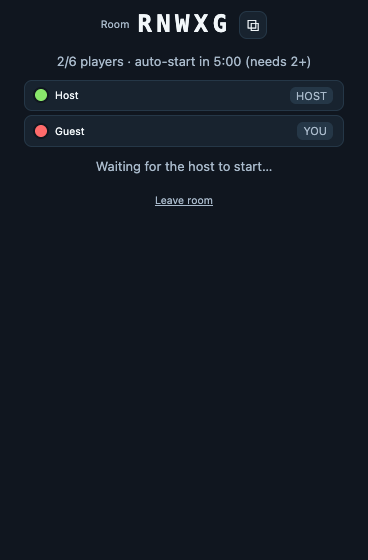
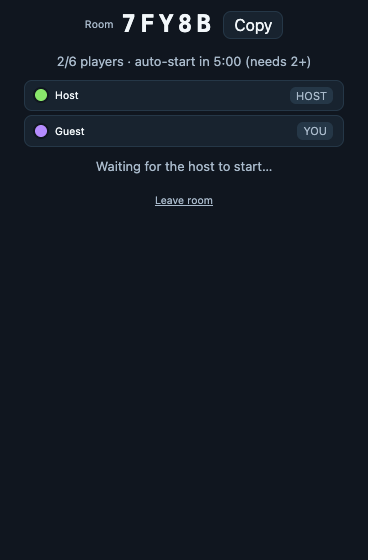
v1.2.1: working copy button, smoother multiplayer, old server removed
- Panel iframe allows clipboard-write; execCommand fallback; visible Copied!
- Space live game states >= 3/4 tick apart (network jitter caused
  double-steps); scoreboard below the board in join order; turn queue 2.
- us-central1 service deleted at the owner's request.
- Tests now click every multiplayer control and check copy in the panel.

Changed region(s): [[0.2092, 0.0, 0.7473, 0.0607], [0.0897, 0.2125, 0.1495, 0.2429]]

diff --git a/extension/games/snake/multi.js b/extension/games/snake/multi.js
@@ -21,7 +21,6 @@ const MEDAL = ['#FFD25B', '#C9D6E2', '#E0A070'];
 const plural = (n, word) => `${n} ${word}${n === 1 ? '' : 's'}`;
 
 const TEMPLATE = `
-<p class="m-status" data-ref="status" role="status"></p>
 
 <section class="m-view" data-view="start">
   <h2>Multiplayer</h2>
@@ -38,7 +37,7 @@ const TEMPLATE = `
 <section class="m-view" data-view="lobby" hidden>
   <div class="m-code">
     <span>Room</span><b data-ref="code"></b>
-    <button class="icon" data-act="copy" aria-label="Copy room code" title="Copy code">⧉</button>
+    <button class="m-copy" data-act="copy" data-ref="copyBtn" aria-label="Copy room code">Copy</button>
   </div>
   <p class="m-muted" data-ref="countdown" aria-live="off"></p>
   <ul class="m-players" data-ref="lobbyPlayers"></ul>
@@ -58,11 +57,11 @@ const TEMPLATE = `
 </section>
 
 <section class="m-view" data-view="game" hidden>
-  <ul class="m-board" data-ref="scoreboard" aria-label="Scoreboard"></ul>
   <div class="stage">
     <canvas data-ref="canvas" role="img" aria-label="Multiplayer Snake board. Steer with arrow keys or W A S D."></canvas>
     <p class="m-banner" data-ref="banner" hidden></p>
   </div>
+  <ul class="m-board" data-ref="scoreboard" aria-label="Scoreboard"></ul>
   <div class="dpad" data-ref="dpad">
     ${['up', 'left', 'down', 'right'].map((d) => `<button class="dir dir-${d}" data-dir="${d}" aria-label="Turn ${d}"><img src="/assets/ui/arrow-${d}.svg" alt=""></button>`).join('')}
   </div>
@@ -87,6 +86,7 @@ const TEMPLATE = `
   <button class="link" data-act="closeGlobal">Back</button>
 </section>
 
+<p class="m-status" data-ref="status" role="status"></p>
 <p class="sr-only" data-ref="announce" aria-live="polite"></p>`;
 
 // mountMulti(container, { onExit }) → { destroy }
@@ -117,6 +117,10 @@ export function mountMulti(container, { onExit }) {
   let lastPhase = null;
   let aim = null; // { dir, at }: your latest steer, drawn on your head before the server's tick moves you
   let localKey;
+  const pending = []; // states waiting for their slot on screen
+  let paceTimer = 0;
+  let shownAt = 0;
+  let copiedTimer = 0;
 
   const el = (tag, cls, text) => {
     const n = document.createElement(tag);
@@ -178,6 +182,7 @@ export function mountMulti(container, { onExit }) {
     lostAt ||= Date.now();
     if (Date.now() - lostAt > GIVE_UP_MS) return giveUp('Lost connection to the room. Check your internet and join again.');
     status('Connection lost. Reconnecting…', true);
+    if (view === 'game') renderGame(state, state.players.find((p) => p.id === me));
     clearTimeout(retry);
     retry = setTimeout(() => connect({ t: 'resume', token }), Math.min(4000, 250 * 2 ** attempt++));
   }
@@ -206,13 +211,34 @@ export function mountMulti(container, { onExit }) {
       inRoom = true;
       if (lostAt || ref.status.textContent.startsWith('Connecting')) status();
       lostAt = attempt = 0;
-      render(msg);
+      pending.push(msg);
+      pace();
     } else if (msg.t === 'error') status(msg.msg, true);
     else if (msg.t === 'expired') giveUp('You were disconnected too long and lost your seat.');
     else if (msg.t === 'closed') giveUp(msg.reason === 'empty' ? '' : msg.reason);
   }
 
+  // Internet jitter delivers ticks 70–250 ms apart; drawn on arrival the snake stutters and double-steps.
+  // Space in-game ticks at least 3/4 of a tick apart, and catch up at once if more than two pile up.
+  function pace() {
+    clearTimeout(paceTimer);
+    while (pending.length) {
+      const next = pending[0];
+      const playing = next.phase === 'playing' && state?.phase === 'playing';
+      const wait = playing && pending.length < 3 ? shownAt + 0.75 * (next.tick ?? 160) - performance.now() : 0;
+      if (wait > 0) {
+        paceTimer = setTimeout(pace, wait);
+        return;
+      }
+      pending.shift();
+      shownAt = performance.now();
+      render(next);
+    }
+  }
+
   function reset() {
+    pending.length = 0;
+    clearTimeout(paceTimer);
     state = null;
     me = token = null;
     lastPhase = null;
@@ -303,9 +329,9 @@ export function mountMulti(container, { onExit }) {
     show('game');
     const snake = s.snakes.find((x) => x.id === me);
     if (aim && (snake?.dir === aim.dir || Date.now() - aim.at > 600)) aim = null;
-    const ranked = s.players.filter((p) => p.inRound).sort((a, b) => b.alive - a.alive || b.score - a.score);
+    // Join order, not live rank: chips that swap places every tick read as jitter.
     ref.scoreboard.replaceChildren(
-      ...ranked.map((p) => {
+      ...s.players.filter((p) => p.inRound).map((p) => {
         const li = el('li', p.alive ? '' : 'out');
         li.append(dot(p.color), el('span', 'm-name', p.name), el('b', '', String(p.score)));
         if (!p.alive) li.append(el('span', 'm-tag', p.gone ? 'left' : 'out'));
@@ -314,7 +340,8 @@ export function mountMulti(container, { onExit }) {
       }),
     );
     let banner = '';
-    if (!mine?.inRound) banner = 'Spectating: you can play next round';
+    if (lostAt) banner = 'Connection lost. Reconnecting…';
+    else if (!mine?.inRound) banner = 'Spectating: you can play next round';
     else if (!mine.alive) banner = "You're out, spectating";
     else if (away) banner = "You're away: your snake keeps moving!";
     ref.banner.textContent = banner;
@@ -446,6 +473,25 @@ export function mountMulti(container, { onExit }) {
     steer(dir);
   }
 
+  // The panel iframe allows clipboard-write; a site that blocks it falls back to the older copy command.
+  async function copyCode() {
+    const code = state?.code ?? '';
+    try {
+      await navigator.clipboard.writeText(code);
+    } catch {
+      const t = Object.assign(document.createElement('textarea'), { value: code });
+      root.append(t);
+      t.select();
+      const ok = document.execCommand('copy');
+      t.remove();
+      if (!ok) return status(`Couldn't copy. Select the code and press ${/Mac/.test(navigator.platform) ? '⌘' : 'Ctrl'}+C.`, true);
+    }
+    ref.copyBtn.textContent = 'Copied!';
+    ref.announce.textContent = 'Room code copied';
+    clearTimeout(copiedTimer);
+    copiedTimer = setTimeout(() => (ref.copyBtn.textContent = 'Copy'), 1500);
+  }
+
   function leave() {
     send({ t: 'leave' });
     giveUp('');
@@ -457,7 +503,7 @@ export function mountMulti(container, { onExit }) {
     const act = e.target.closest('button[data-act]')?.dataset.act;
     if (act === 'create') connect({ t: 'create' });
     else if (act === 'back') onExit();
-    else if (act === 'copy') navigator.clipboard?.writeText(state?.code ?? '').then(() => (ref.announce.textContent = 'Room code copied'), () => {});
+    else if (act === 'copy') copyCode();
     else if (act === 'start' || act === 'rematch') {
       status();
       send({ t: act });
@@ -506,6 +552,8 @@ export function mountMulti(container, { onExit }) {
     destroy() {
       clearInterval(clock);
       clearTimeout(retry);
+      clearTimeout(paceTimer);
+      clearTimeout(copiedTimer);
       send({ t: 'leave' }); // free the seat now instead of after the grace period
       hangUp();
       window.removeEventListener('keydown', onKey);

diff --git a/server/rules.js b/server/rules.js
@@ -6,7 +6,7 @@ export const SIZE = 24;
 export const COLORS = ['green', 'coral', 'sky', 'yellow', 'violet', 'orange', 'pink', 'teal'];
 // One 4-row lane per snake keeps spawns apart, so the board size sets the cap (24 → 6 players).
 export const MAX_PLAYERS = Math.min(COLORS.length, Math.floor(SIZE / 4));
-const QUEUE = 3; // buffered turns: quick double-taps inside one tick both count
+const QUEUE = 2; // a quick double-tap inside one tick counts; more would replay stale presses later
 const DIRS = { up: [0, -1], down: [0, 1], left: [-1, 0], right: [1, 0] };
 const OPPOSITE = { up: 'down', down: 'up', left: 'right', right: 'left' };
 

diff --git a/extension/content/overlay.js b/extension/content/overlay.js
@@ -61,7 +61,7 @@
           <button class="min" aria-label="Minimize game">${icon('<path d="M5 16H19"/>')}</button>
           <button class="close" aria-label="Close game">${icon('<path d="M6 6L18 18M18 6L6 18"/>')}</button>
         </div>
-        <iframe allow=""></iframe>
+        <iframe allow="clipboard-write"></iframe>
       </div>
       <button class="chip" hidden>${icon('<rect x="5" y="5" width="14" height="14" rx="2"/><path d="M5 9H19"/>')}<span></span></button>`;
     panel = root.querySelector('.panel');

diff --git a/extension/game/shell.css b/extension/game/shell.css
@@ -215,3 +215,5 @@ button.link { border: 0; background: none; color: var(--muted); text-decoration:
   .m-end:not([hidden]) .m-trophy { animation: m-pop 420ms ease-out; }
 }
 @keyframes m-pop { from { transform: scale(0.6); opacity: 0; } to { transform: scale(1); opacity: 1; } }
+.m-copy { min-height: 28px; padding: 0 10px; font-size: 13px; }
+.m-board b { min-width: 3ch; text-align: right; }

diff --git a/server/index.js b/server/index.js
@@ -58,6 +58,7 @@ function snapshot(room) {
     phase: room.phase,
     host: room.hostId,
     max: MAX_PLAYERS,
+    tick: TICK_MS,
     endsIn: room.deadline ? Math.max(0, room.deadline - Date.now()) : null,
     size: SIZE,
     winner: room.winner,

diff --git a/docs/HANDOFF.md b/docs/HANDOFF.md
@@ -41,8 +41,9 @@ No service worker, read-max-write best score, fewer files. Reasons are in `DECIS
 ## 2026-10-07 multiplayer (v1.2.0)
 
 - `server/`: `rules.js` holds the pure rules (wrap, body hits, head-on vs side hits, 3-turn input queue, 6-player cap from the board size). `index.js` handles rooms, sessions with resume tokens and a 20 s grace, host-only start/rematch, the 160 ms tick, the origin check, pings and `GET /leaderboard`. `stats.js` is the global leaderboard: Firestore on Cloud Run, in memory elsewhere. Tests: `cd server && npm test` (13 pass).
-- Live: Cloud Run `gamehub-snake` in **asia-south1**, `wss://gamehub-snake-733095730479.asia-south1.run.app`, with Firestore `(default)` in asia-south1. The `us-central1` service still runs v1.1.0 code for v1.1.0 clients; deletion command is in `server/README.md`. All GCP details and the safe live-test procedure are there too.
+- Live: Cloud Run `gamehub-snake` in **asia-south1**, `wss://gamehub-snake-733095730479.asia-south1.run.app`, with Firestore `(default)` in asia-south1. The us-central1 service is deleted (v1.1.0 multiplayer no longer connects). All GCP details and the safe live-test procedure are in `server/README.md`.
+- v1.2.1: the copy button works inside the panel (the iframe now has `allow="clipboard-write"`, with an `execCommand` fallback and a visible "Copied!"). In-game states are spaced at least ¾ of a tick apart (`pace()` in `multi.js`). The scoreboard sits below the board in join order. Status messages sit at the bottom. The turn queue is 2.
 - `extension/games/snake/multi.js`: lobby (code, seats used of the cap, colour swatches, countdown), auto-reconnect (backoff 0.25→4 s, gives up after 25 s, retries when the browser comes back online), the head turns on key press before the server tick, live scoreboard with "reconnecting" tags, results, and the global leaderboard view. Player identity is a random `playerKey` in `chrome.storage.local`; the last used name is `playerName`.
 - Single-player never loads `multi.js` and makes no requests (checked with the network off).
 - `tests/multiplayer-e2e.mjs`: Chrome check against the live server (default) or a localhost copy (`GAME_URL`).
-- Next: a two-machine match with real people; delete the us-central1 service once v1.1.0 is gone; consider a budget alert. When the GCP free trial ends, Google stops the service unless the billing account is upgraded.
+- Next: a two-machine match with real people; consider a budget alert. When the GCP free trial ends, Google stops the service unless the billing account is upgraded.

diff --git a/docs/DECISIONS.md b/docs/DECISIONS.md
@@ -91,3 +91,11 @@ The user asked to use Vercel instead of GCP if possible, to stay free. Vercel's 
 - **Auto-reconnect**: each connection gets a session with a private resume token. A dropped player keeps their seat, host role and snake for 20 s (`GRACE_MS`); the snake keeps moving, matching the "away" rule. Cloud Run's 1 h socket limit is handled by the same reconnect.
 - **Global leaderboard** (supersedes "per room only"): Firestore `(default)` in asia-south1, `players/{sha256(playerKey)[0:32]} = { name, wins, points }`, ordered by wins then points through a composite index. A random per-profile key avoids accounts, and the hash keeps it private. `GET /leaderboard` is served from a 30 s cache, so public reads can't drive up Firestore reads. Only matches of 15 s or more count, which stops instant-forfeit farming. A match where one browser holds two seats isn't counted. Known limit: two Chrome profiles can still farm slowly; fixing that needs real accounts.
 - IAM in the game's project only: `roles/datastore.user` for the runtime service account.
+
+## 2026-10-07 — v1.2.1 fixes (user reports)
+
+- **Old us-central1 service deleted** on the owner's request; v1.1.0 multiplayer stops working.
+- **Copy button**: the panel iframe had `allow=""`, which blocks clipboard writes from the embedded game, and the failure was silent. Now `allow="clipboard-write"`, an `execCommand('copy')` fallback for sites whose Permissions-Policy blocks it, and a visible "Copied!".
+- **Jerky movement**: measured state arrivals on the live server ranged 73–248 ms against a 160 ms tick. Drawing on arrival made the snake double-step or stall. The client now spaces in-game states at least 0.75 × tick apart and catches up at once if more than two are waiting. Measured on screen: minimum 120 ms, median 161 ms. A late packet still shows as a short pause; hiding that needs a playout buffer, which adds delay to every move, so it wasn't done.
+- **No layout jumps**: the scoreboard moved below the board and keeps join order (live rank reshuffled chips every tick). Status text moved to the bottom; during a match the reconnect notice uses the on-board banner.
+- **Turn queue 3 → 2**: a third buffered press replayed stale turns well after the key press, which felt like sudden movement.

diff --git a/docs/VERIFICATION.md b/docs/VERIFICATION.md
@@ -131,3 +131,13 @@ Bugs found and fixed by this run: panel rendered off-screen (`all: initial !impo
 | Reconnect on a real flaky network (Wi-Fi switch, laptop sleep) | NOT TESTED | Only a forced socket cut was tested |
 
 Note: while cleaning up the test revision, live traffic briefly (about 2 min) pointed at it. Logs show only the two test sockets reached it, and the real `players` collection stayed empty. The correct cleanup order is now in `server/README.md`.
+
+## v1.2.1 — 2026-10-07
+
+| Check | Result | Evidence |
+| --- | --- | --- |
+| Copy button inside the real panel iframe on a web page (clipboard read back) | FAIL before the fix (clipboard unchanged) → PASS | `tests/e2e.mjs` (30/30) |
+| Every multiplayer control: Global from menu and results, Back, Create, Join by code, colour pick, Copy, Join, Start, all four D-pad buttons and keyboard (checked against the server's state by a watching socket), double tap, reconnect, results, Rematch, Leave in lobby, host handover, back to single player | PASS (27/27, live asia-south1) | `tests/multiplayer-e2e.mjs` |
+| On-screen step timing during a live match (guest page, 15 s) | min 120 / median 161 / max 221 ms, no steps under 100 ms (raw arrivals: min 77 ms) | `smooth.mjs` (session scratch) |
+| Server tests | PASS (13) | `server/server.test.js` |
+| us-central1 service deleted; only asia-south1 remains | PASS | `gcloud run services list` |

diff --git a/README.md b/README.md
@@ -16,16 +16,16 @@ Play a quick game of Snake while a website loads, uploads, or processes. Click t
 
 ## Download
 
-**[⬇ Download GameHub-1.2.0.zip](https://github.com/Pallavrai/GameHub/releases/latest/download/GameHub-1.2.0.zip)** · [all releases](https://github.com/Pallavrai/GameHub/releases)
+**[⬇ Download GameHub-1.2.1.zip](https://github.com/Pallavrai/GameHub/releases/latest/download/GameHub-1.2.1.zip)** · [all releases](https://github.com/Pallavrai/GameHub/releases)
 
 GameHub is not on the Chrome Web Store, so Chrome installs it in Developer mode (takes a minute).
 
 ## Install
 
-1. Download and unzip `GameHub-1.2.0.zip`. Move the `GameHub-1.2.0` folder somewhere permanent — Chrome loads it from that folder, so don't delete it.
+1. Download and unzip `GameHub-1.2.1.zip`. Move the `GameHub-1.2.1` folder somewhere permanent — Chrome loads it from that folder, so don't delete it.
 2. Open `chrome://extensions` in Chrome.
 3. Turn on **Developer mode** (top-right switch).
-4. Click **Load unpacked** and select the `GameHub-1.2.0` folder.
+4. Click **Load unpacked** and select the `GameHub-1.2.1` folder.
 5. Click the puzzle-piece icon in the toolbar and pin **GameHub**.
 
 Works in Chrome and other Chromium browsers (Edge, Brave, Arc) that support loading unpacked extensions.

diff --git a/server/README.md b/server/README.md
@@ -16,8 +16,7 @@ Environment overrides (tests use them): `LOBBY_MS`, `GRACE_MS` (seat kept after 
 
 - GCP project `project-b323005a-fcb3-45ee-b4d` ("My First Project"). Never deploy into `pactsage`.
 - Cloud Run service `gamehub-snake` in `asia-south1` (Mumbai): `wss://gamehub-snake-733095730479.asia-south1.run.app`. v1.2.0+ clients use it.
-- The `us-central1` service of the same name runs v1.1.0 code for v1.1.0 clients. Delete it once nobody uses 1.1.0:
-  `gcloud run services delete gamehub-snake --region us-central1 --project project-b323005a-fcb3-45ee-b4d`
+- The old `us-central1` service (v1.1.0 clients) was deleted on 2026-10-07 at the owner's request, so v1.1.0 multiplayer no longer connects.
 - Firestore `(default)` database (Native, `asia-south1`). Collection `players/{sha256(player key)[0:32]}` holds `{ name, wins, points }`. Composite index on `players`: `wins` desc, `points` desc.
 - The runtime service account `733095730479-compute@developer.gserviceaccount.com` has `roles/run.builder` (needed for source deploys) and `roles/datastore.user`.
 
